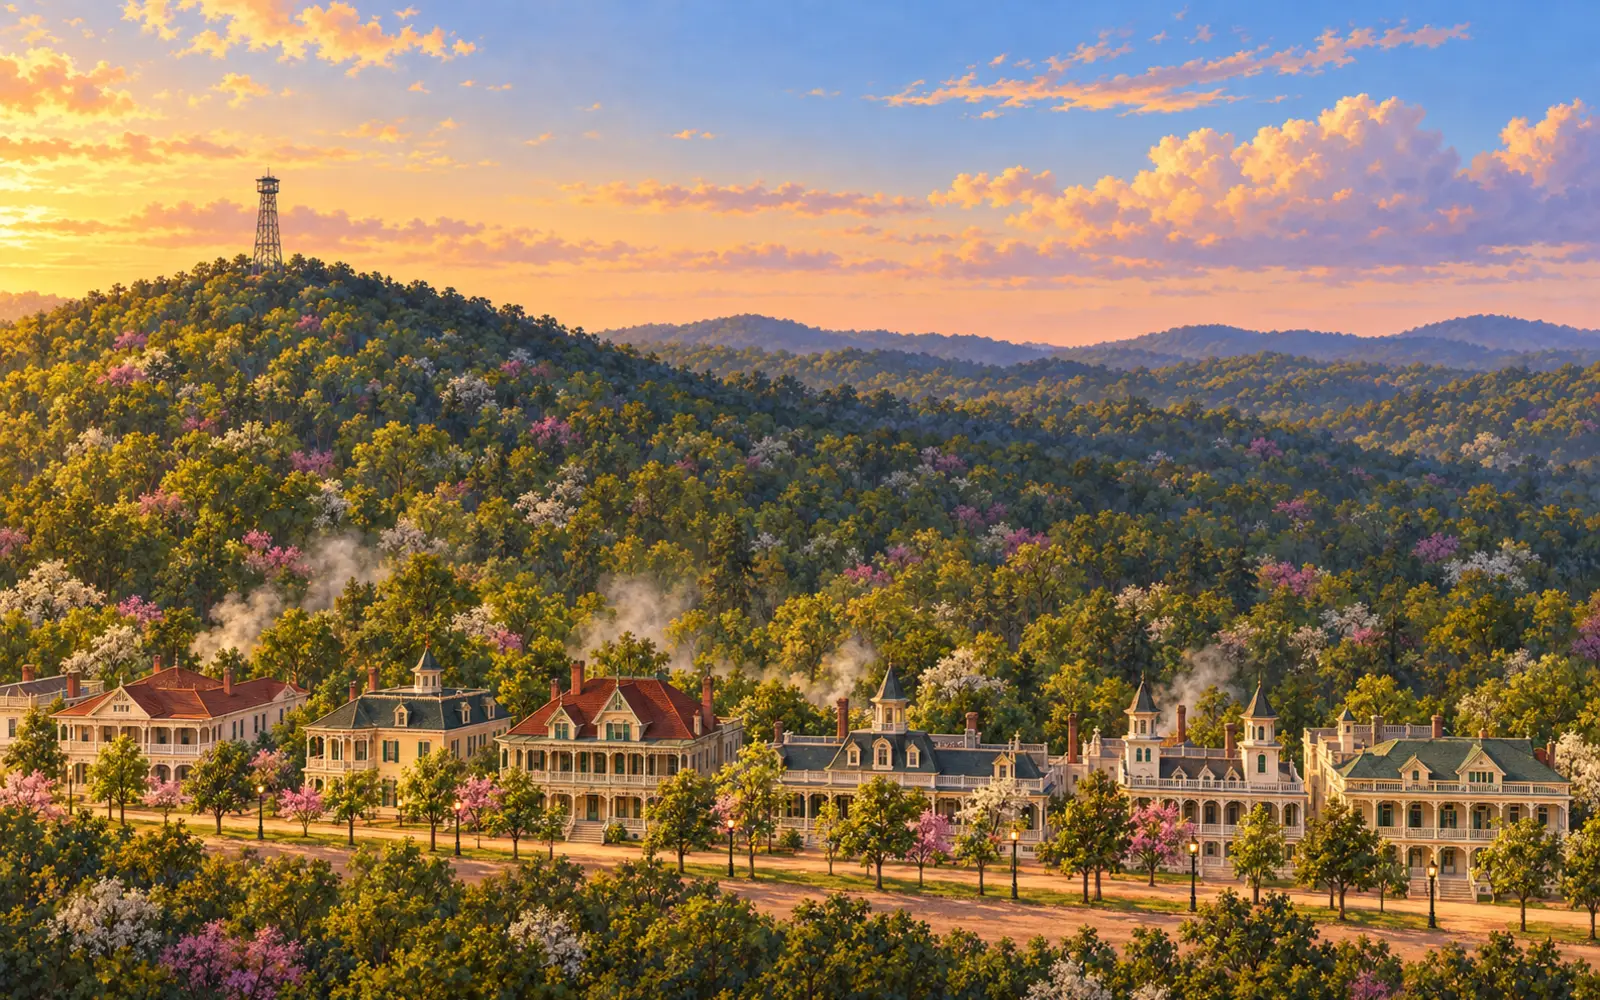
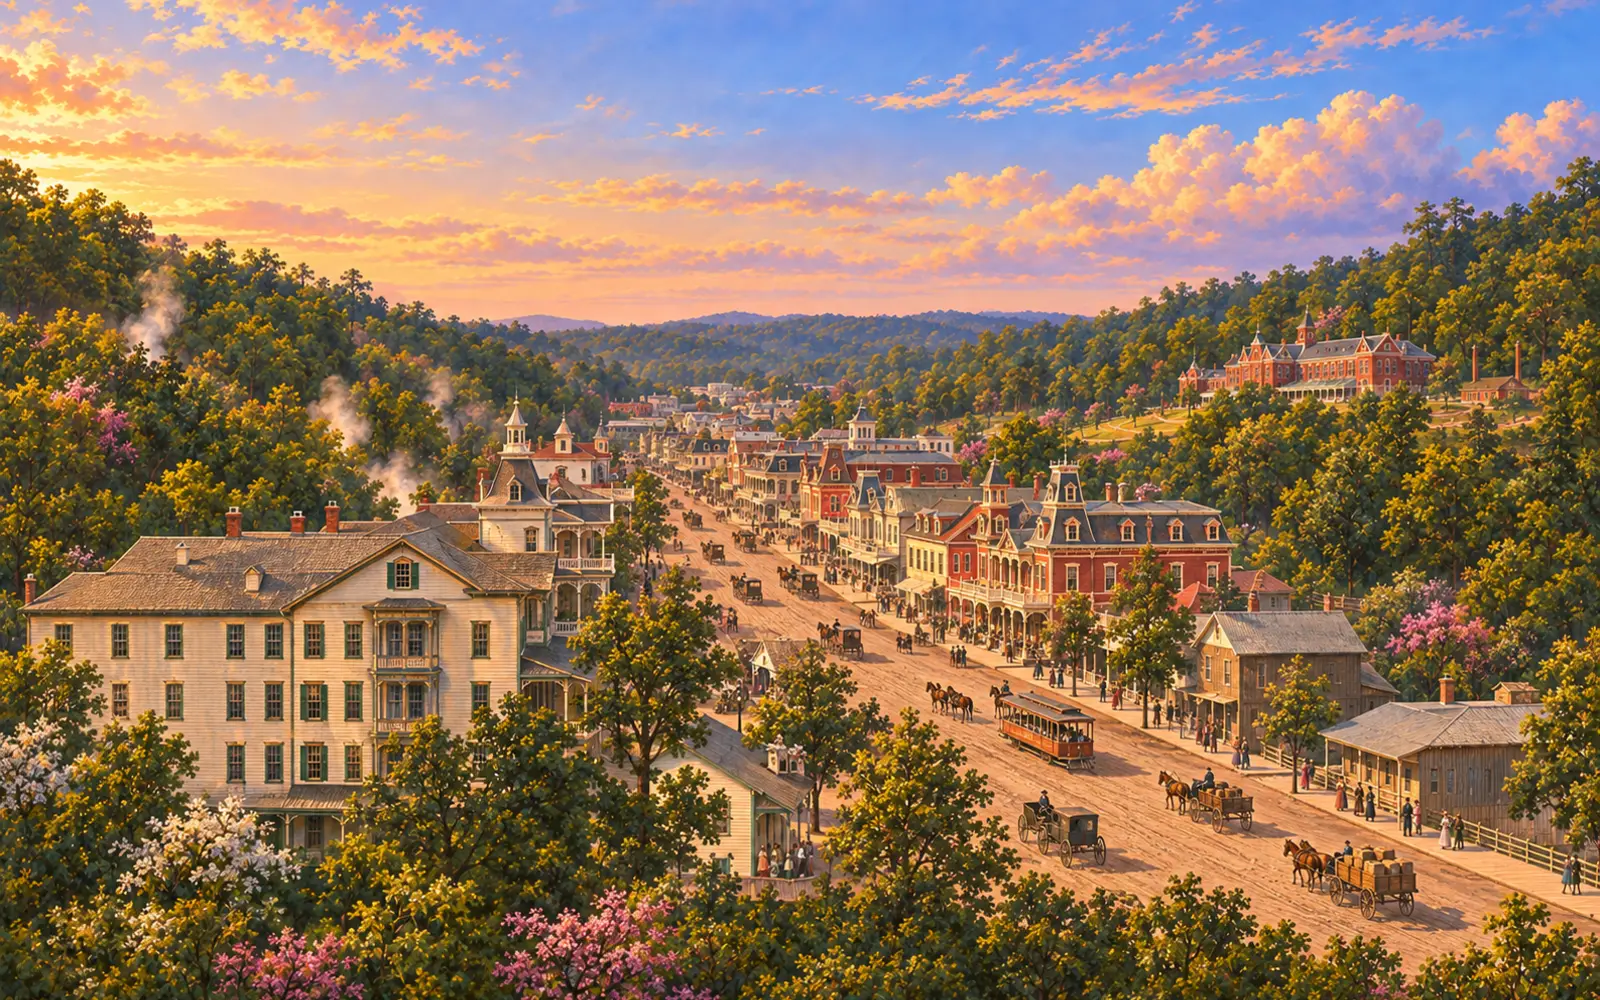
Thermal Blocks: repainted title and era backdrops
Repainted title and background art, packed from the new art-src sources with the
repo's usual tools. REPORT.md has the details and test results.

diff --git a/index.html b/index.html
@@ -290,7 +290,7 @@ table.keys td{padding:4px 6px;border-bottom:1px solid var(--color-border);vertic
     </table>
     <p class="muted">Undo: one per round by default (change it in Settings).</p>
     <h3>About the pictures</h3>
-    <p class="muted">The backdrops are game art of the real view east over Bathhouse Row to Hot Springs Mountain and its tower, one per era. Times of day, seasons and small details are artistic; landmarks follow sources listed in the game files. Terrain: USGS 3D Elevation Program (public domain). Building footprints: © OpenStreetMap contributors (ODbL). Font: Fraunces (SIL Open Font License).</p>
+    <p class="muted">The backdrops are game art of downtown Hot Springs seen from the hills above Central Avenue and Bathhouse Row, one per era, from the wild creek valley before 1804 to today. Times of day, seasons and small details are artistic; landmarks follow sources listed in the game files. Terrain: USGS 3D Elevation Program (public domain). Building footprints: © OpenStreetMap contributors (ODbL). Font: Fraunces (SIL Open Font License).</p>
     <div class="row"><button data-back class="primary">Back</button></div>
   </div>
 </section>

diff --git a/REPORT.md b/REPORT.md
@@ -144,3 +144,12 @@ random legal playouts that win runs from 74% (Ozark, a deliberate breather) to 0
 - Commit `tools/solutions.json` along with the levels. The trail test reads it, and it must be regenerated
   (`node games/block-puzzle/tools/rules-node.mjs`, about 20 s) whenever a level changes.
 - The screenshot folders `m1`–`m5` are earlier milestone runs kept for the gallery; `final` is authoritative.
+
+## Update: repainted backgrounds (2026-11-02)
+
+The title painting and all seven era backdrops were repainted. They now look down on downtown from the hills above
+Central Avenue and Bathhouse Row, so the About text says so. The new source PNGs replace the `art-src/art.json`
+sources (git-ignored; the workspace keeps copies of the old and new paintings in `reference/backgrounds/`) and were
+packed with the usual tools. Older descriptions of these paintings in VISUAL-REPORT.md refer to the previous art.
+
+`npm test`: 65/65 passed.
